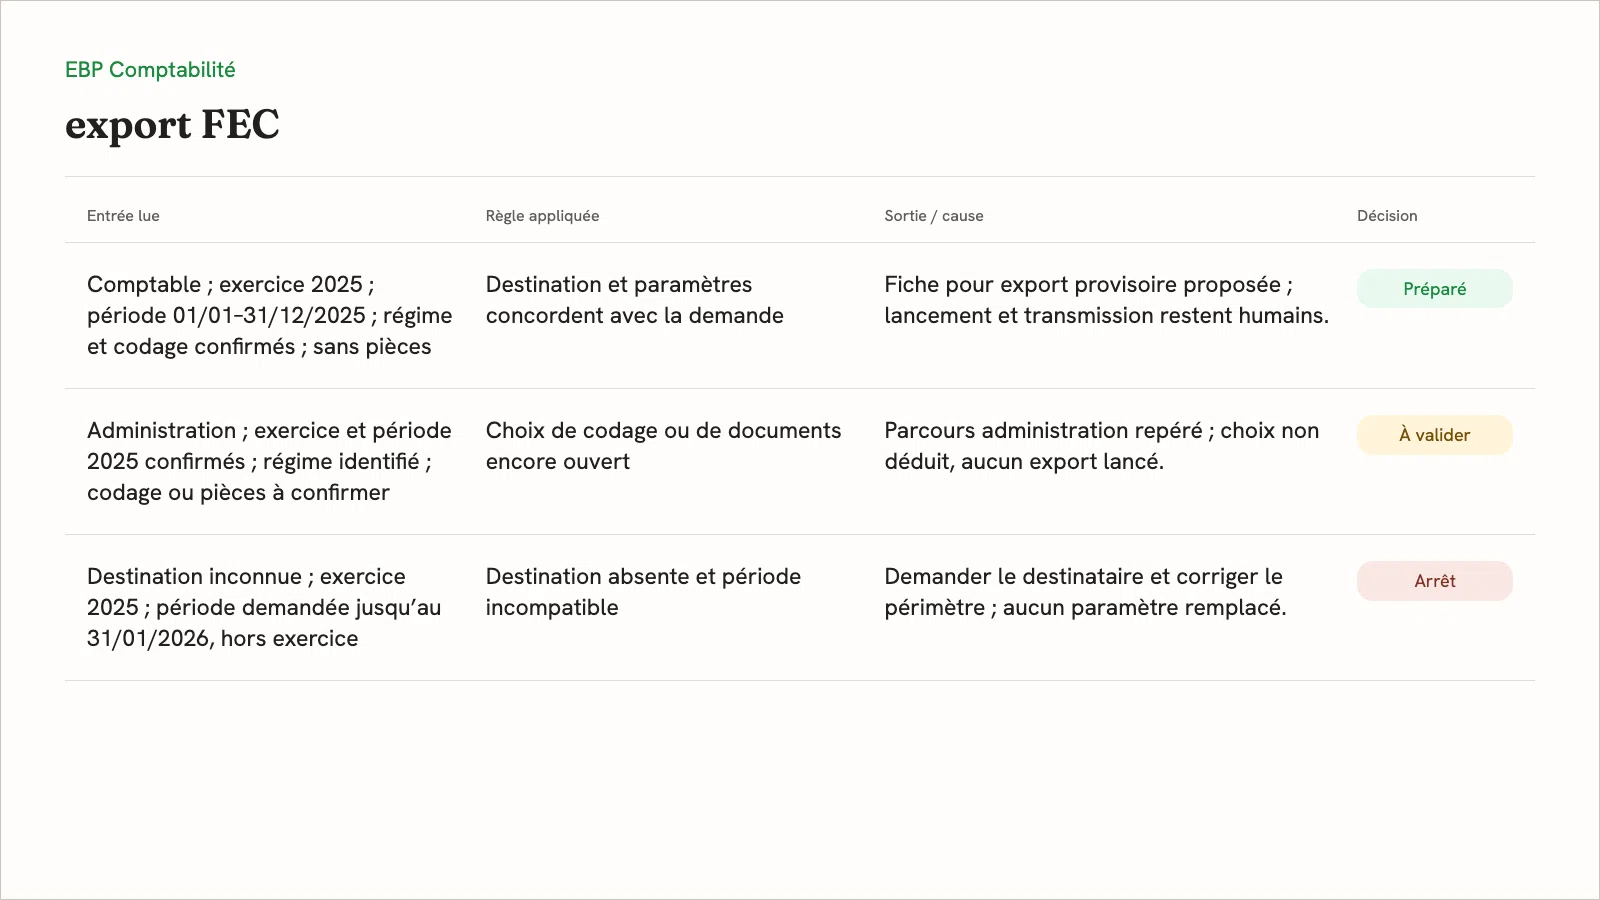
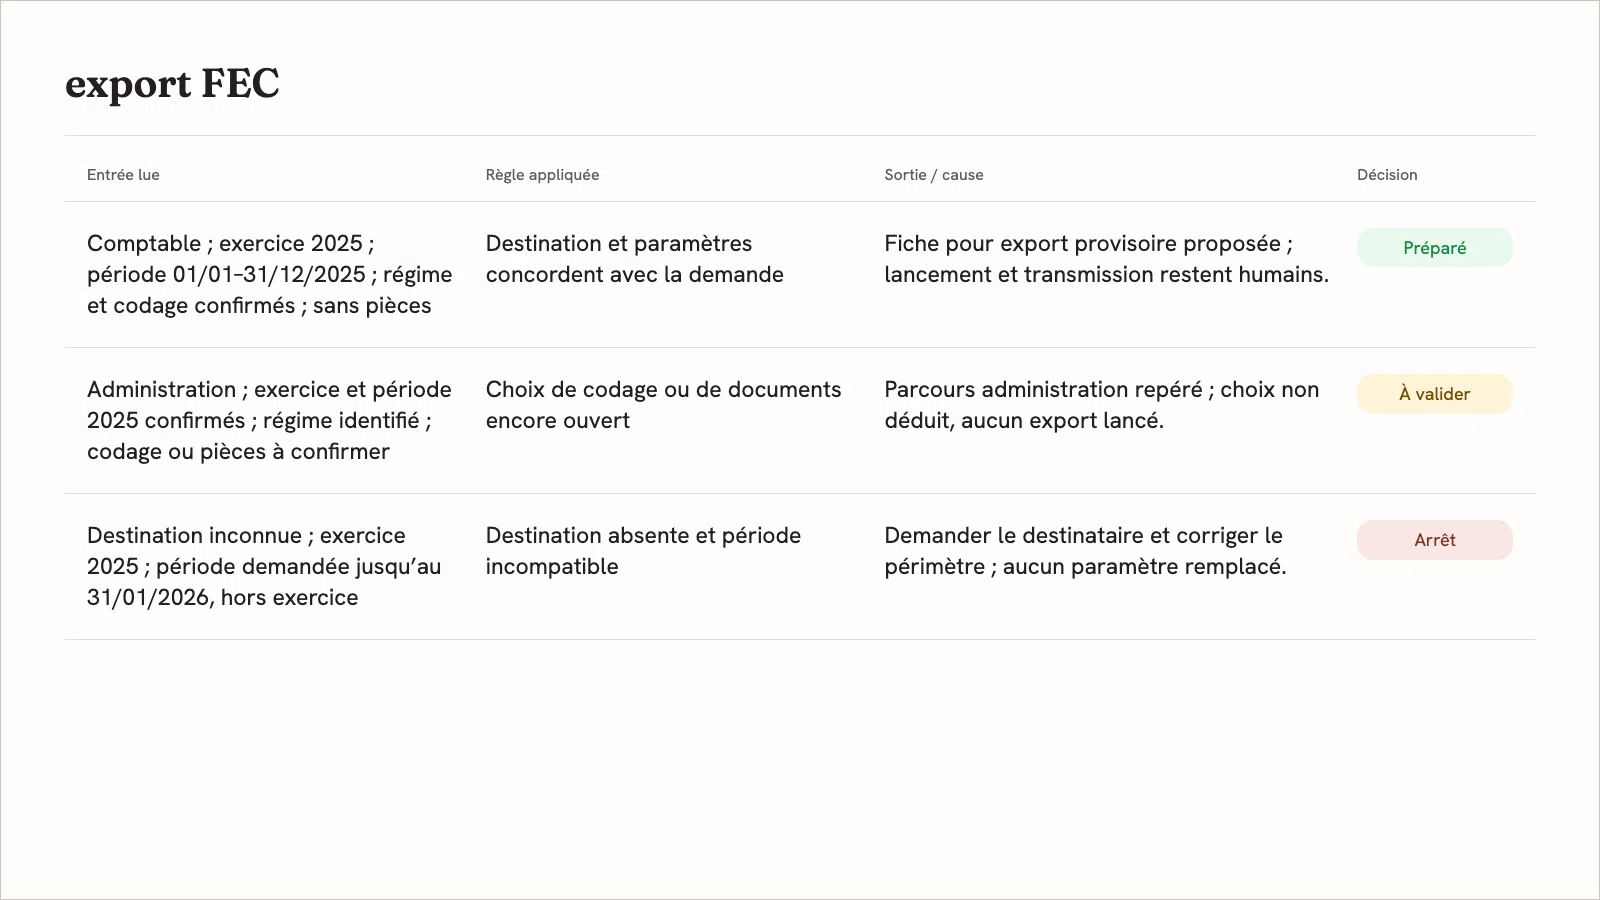
feat(guides): seal reviewed EBP FEC export guide

diff --git a/guides/etats/export-fec-ebp/preuve.html b/guides/etats/export-fec-ebp/preuve.html
@@ -4,14 +4,14 @@
 *{box-sizing:border-box}body{margin:0;color:#231f20;font-family:Hanken,sans-serif}
 main{width:1600px;height:900px;padding:54px 64px;background:#fffefb;border:1px solid #c8c4bb}
 header{border-bottom:1px solid #dedbd4;padding-bottom:24px}p,h2{margin:0;overflow-wrap:anywhere}
-.context{font-size:22px;color:#1c8a41;margin-bottom:12px}h2{font-family:Fraunces,serif;font-size:40px;line-height:1.4}
+h2{font-family:Fraunces,serif;font-size:40px;line-height:1.4}
 .head,.row{display:grid;grid-template-columns:1fr 1fr 1.2fr .42fr;gap:28px}
 .head{margin-top:28px;padding:0 22px 16px;font-size:16px;color:#625d5f}
 .row{padding:26px 22px;border-top:1px solid #dedbd4;font-size:23px;line-height:1.35;align-items:start}
 .row:last-child{border-bottom:1px solid #dedbd4}.row>*{min-width:0}.row p{font-weight:400}
 .state{font-size:18px;line-height:1.3;padding:8px 10px;border-radius:16px;text-align:center}
 .success{background:#eaf8ef;color:#1c8a41}.warning{background:#fff4d9;color:#71500a}.blocked{background:#f9e7e3;color:#7b3226}
-</style></head><body><main><header><p class="context">EBP Comptabilité</p><h2>export FEC</h2></header>
+</style></head><body><main><header><h2>export FEC</h2></header>
 <div class="head"><span>Entrée lue</span><span>Règle appliquée</span><span>Sortie / cause</span><span>Décision</span></div>
 <article class="row"><p>Comptable ; exercice 2025 ; période 01/01–31/12/2025 ; régime et codage confirmés ; sans pièces</p><p>Destination et paramètres concordent avec la demande</p><p>Fiche pour export provisoire proposée ; lancement et transmission restent humains.</p><p class="state success">Préparé</p></article><article class="row"><p>Administration ; exercice et période 2025 confirmés ; régime identifié ; codage ou pièces à confirmer</p><p>Choix de codage ou de documents encore ouvert</p><p>Parcours administration repéré ; choix non déduit, aucun export lancé.</p><p class="state warning">À valider</p></article><article class="row"><p>Destination inconnue ; exercice 2025 ; période demandée jusqu’au 31/01/2026, hors exercice</p><p>Destination absente et période incompatible</p><p>Demander le destinataire et corriger le périmètre ; aucun paramètre remplacé.</p><p class="state blocked">Arrêt</p></article>
 </main></body></html>
